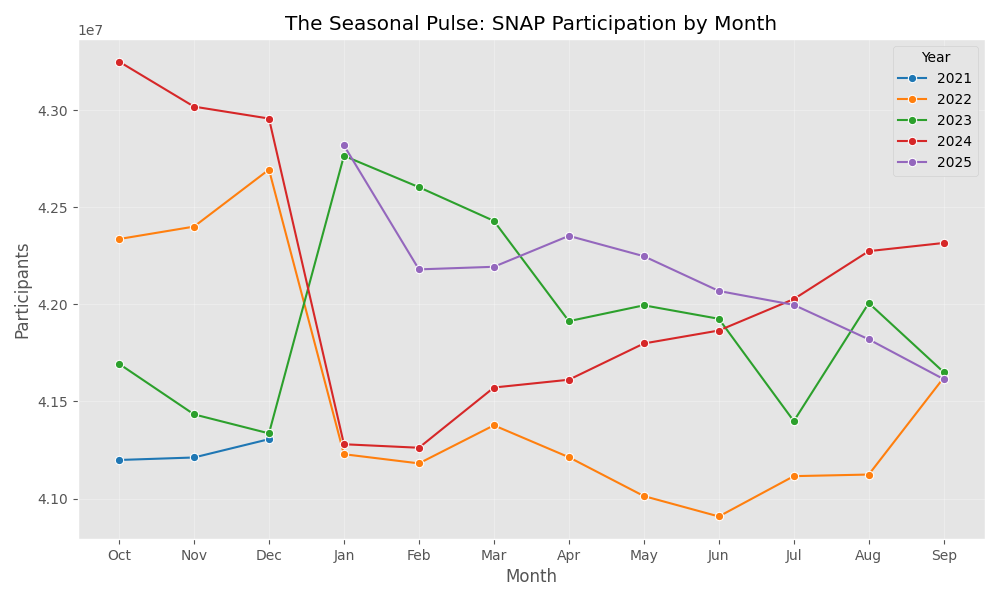
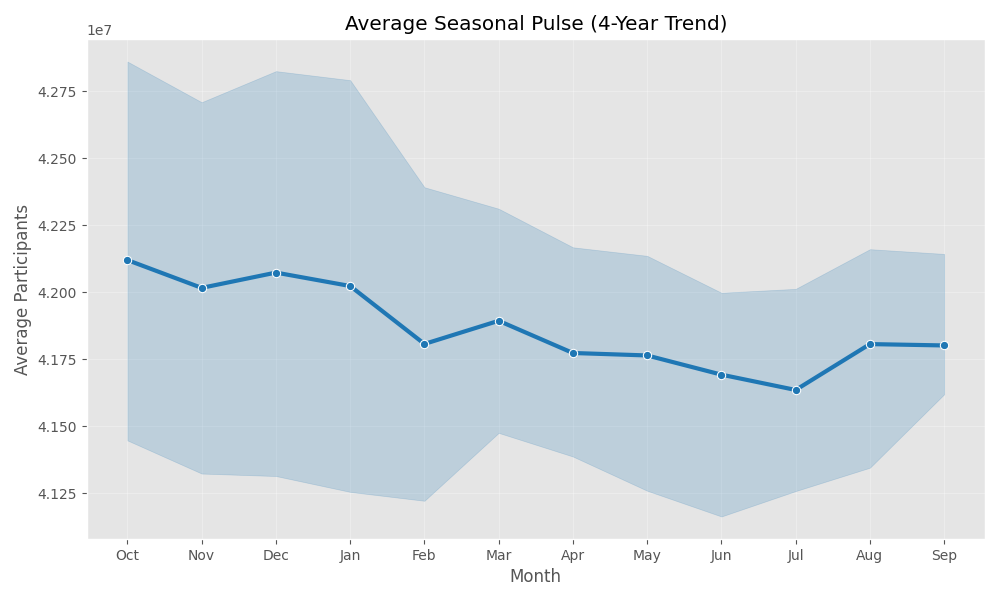
feat: Refined Seasonal Pulse chart and removed Cost of Hunger

diff --git a/Contra_Costa/py/contra_costa_analysis.py b/Contra_Costa/py/contra_costa_analysis.py
@@ -324,16 +324,16 @@ def analyze_demand_spikes_monthly(filepath):
         print(f"   After weighting 2024-2025 more heavily, the Peak Demand Month is: {peak_month}")
         print(f"   (Weighted Avg Surge: +{peak_value:.1f}%)")
 
-        # --- VISUALIZATION 3: Seasonal Pulse (Multi-Year Line Chart) ---
+        # --- VISUALIZATION 3: Average Seasonal Pulse (Aggregated) ---
         plt.figure(figsize=(10, 6))
         
-        # Plot lines: One line per Year
-        sns.lineplot(data=monthly_df, x='MonthName', y=part_persons_col, hue='Year', marker='o', palette='tab10')
+        # Plot: Seaborn defaults to MEAN with 95% Confidence Interval when hue is removed
+        # This creates the "One Average Line" the user requested.
+        sns.lineplot(data=monthly_df, x='MonthName', y=part_persons_col, marker='o', color='tab:blue', linewidth=3)
         
-        plt.title("The Seasonal Pulse: SNAP Participation by Month")
-        plt.ylabel("Participants")
+        plt.title("Average Seasonal Pulse (4-Year Trend)")
+        plt.ylabel("Average Participants")
         plt.xlabel("Month")
-        plt.legend(title='Year')
         plt.grid(True, alpha=0.3)
         plt.tight_layout()
         plt.savefig("seasonal_pulse.png")
@@ -342,8 +342,8 @@ def analyze_demand_spikes_monthly(filepath):
         print("\n" + "-"*60)
         print("VISUAL GENERATED: 'seasonal_pulse.png'")
         print("-"*60)
-        print("WHAT IT IS: A calendar of hunger.")
-        print("HOW TO READ: Look for where the lines consistently go UP together.")
+        print("WHAT IT IS: The 'Average Year'.")
+        print("HOW TO READ: The line shows the typical monthly demand averaged over 4 years.")
         print("ACTION: Start your volunteer recruitment drive 1 month BEFORE the peak.")
         print(f"        (i.e., Recruit in September for the {peak_month} rush).")
 
@@ -372,36 +372,10 @@ def analyze_demand_spikes_monthly(filepath):
         else:
             print("   -> Buy more 'Family Packs'.")
 
-        # --- VISUALIZATION 5: The Cost of Hunger (Dual Axis) ---
-        # Dual-Axis means we plot two different things (People vs Dollars) on the same chart.
-        fig, ax1 = plt.subplots(figsize=(12, 6))
+        # [VISUALIZATION 5 REMOVED AS REQUESTED]
+        # User Feedback: "Common sense, no chart needed."
         
-        # Left Axis: People (Blue)
-        color = 'tab:blue'
-        ax1.set_xlabel('Date')
-        ax1.set_ylabel('Participants (Millions)', color=color)
-        ax1.plot(monthly_df['parsed_date'], monthly_df[part_persons_col] / 1e6, color=color, label='People', linewidth=2)
-        ax1.tick_params(axis='y', labelcolor=color)
-        
-        # Right Axis: Cost (Green)
-        ax2 = ax1.twinx()
-        color = 'tab:green'
-        ax2.set_ylabel('Total Benefit Cost (Billions $)', color=color)  
-        ax2.plot(monthly_df['parsed_date'], monthly_df[cost_col] / 1e9, color=color, linestyle='--', label='Cost', linewidth=2)
-        ax2.tick_params(axis='y', labelcolor=color)
-        
-        plt.title("The Cost of Hunger: Demand vs. Spending")
-        plt.tight_layout()
-        plt.savefig("cost_of_hunger.png")
-        
-        # --- EXPLANATION 5 ---
-        print("\n" + "-"*60)
-        print("VISUAL GENERATED: 'cost_of_hunger.png'")
-        print("-"*60)
-        print("WHAT IT IS: The 'ROI' of benefits.")
-        print("HOW TO READ: If Green (Cost) goes up faster than Blue (People), inflation is high.")
-        print("ACTION: Use this chart in Donor Letters to explain why you need more money")
-        print("        just to feed the SAME number of people.")
+        return monthly_df
         
         return monthly_df
 
